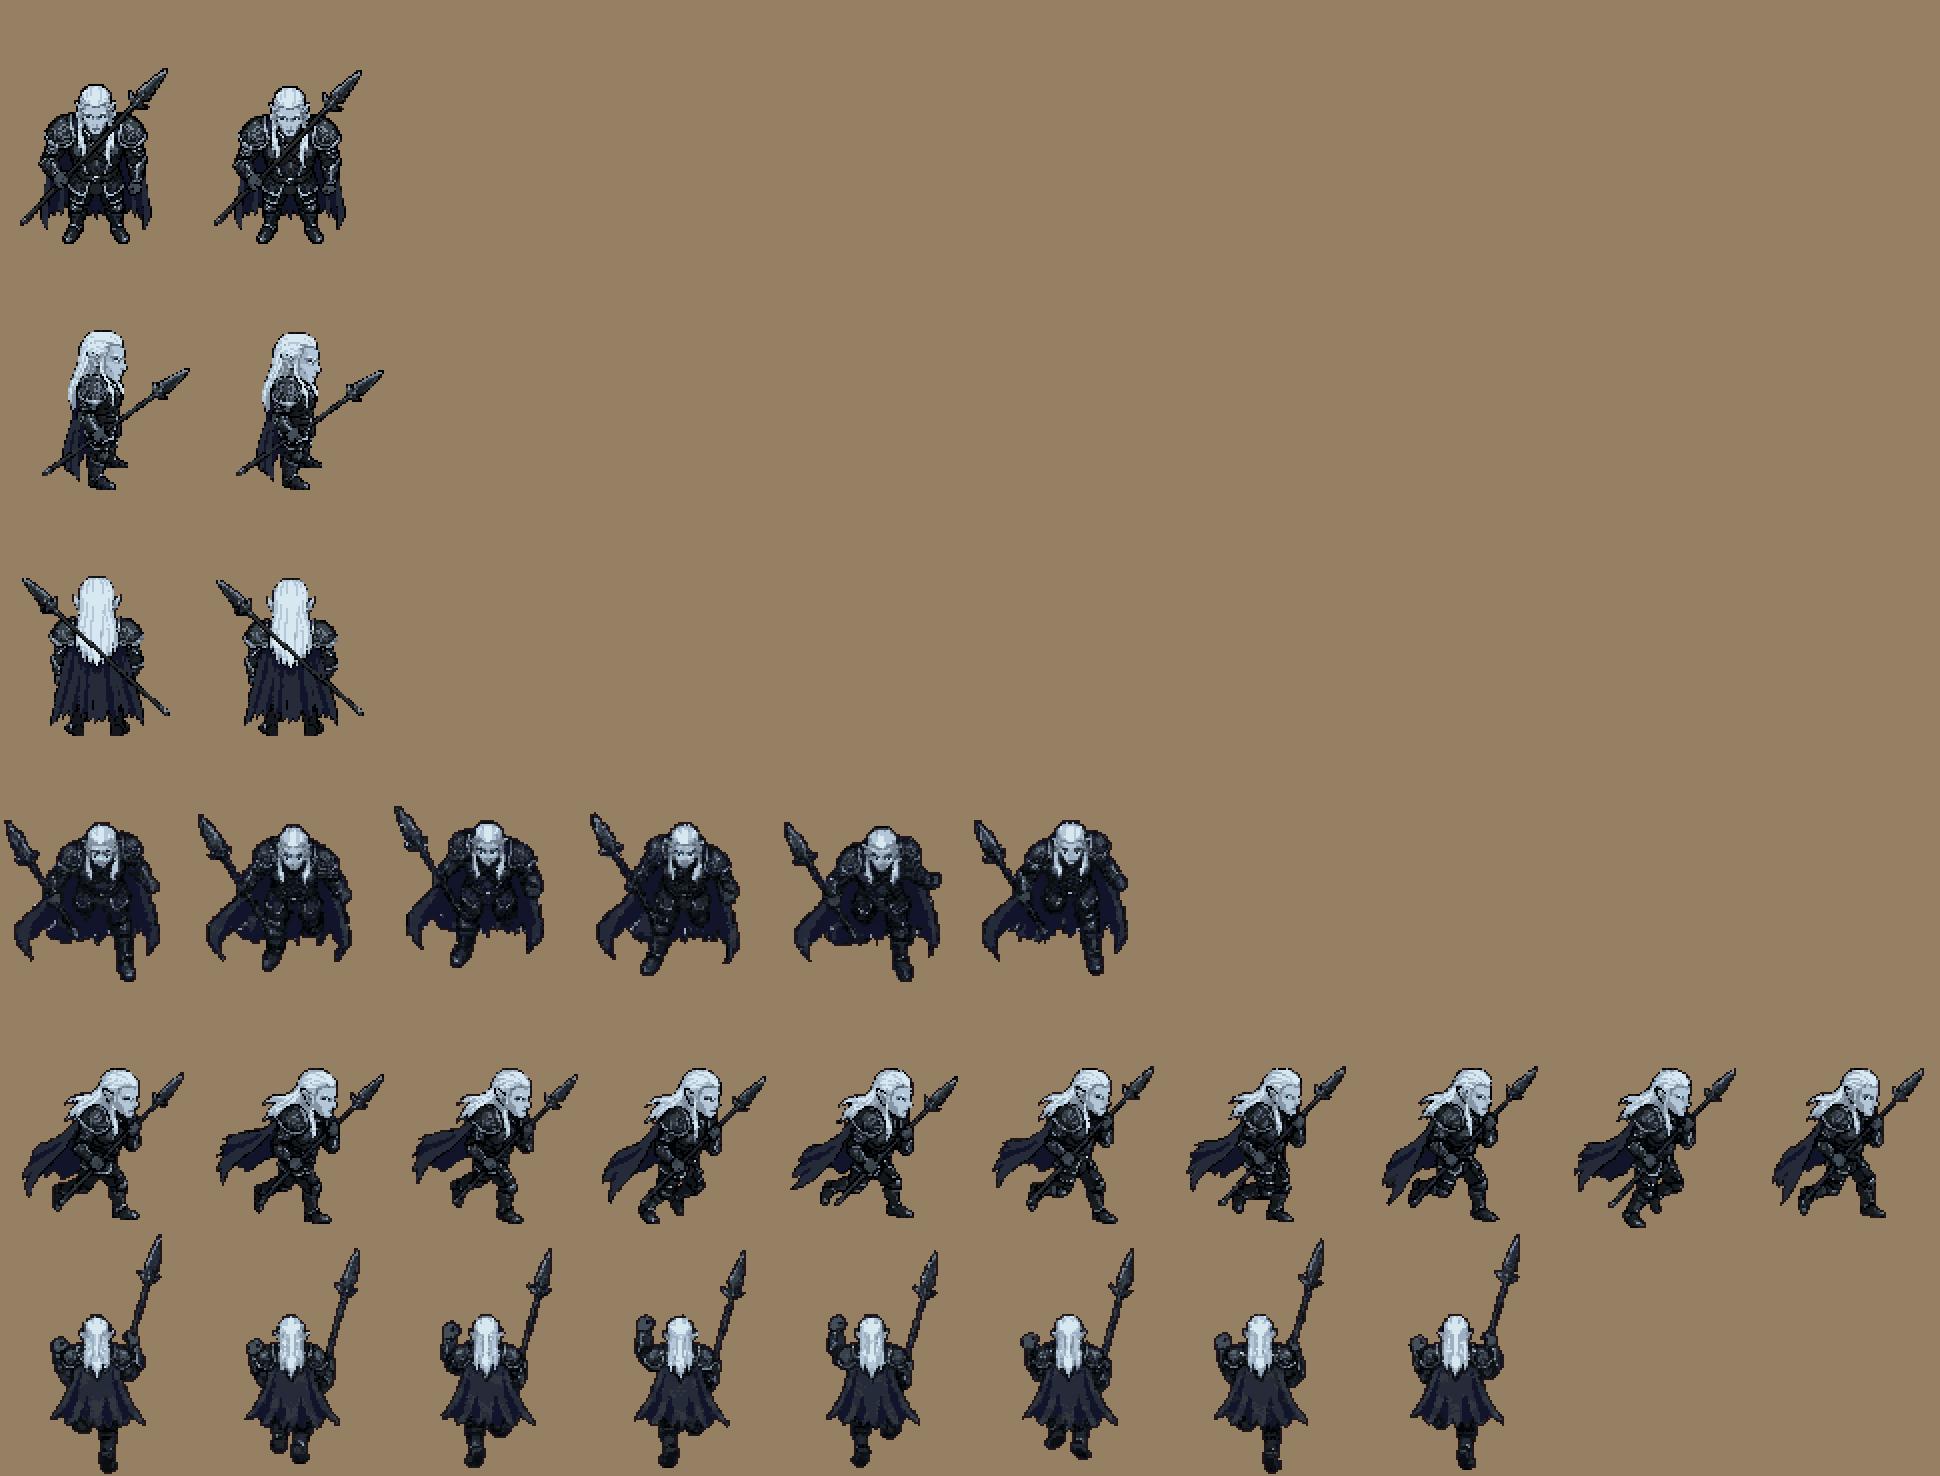
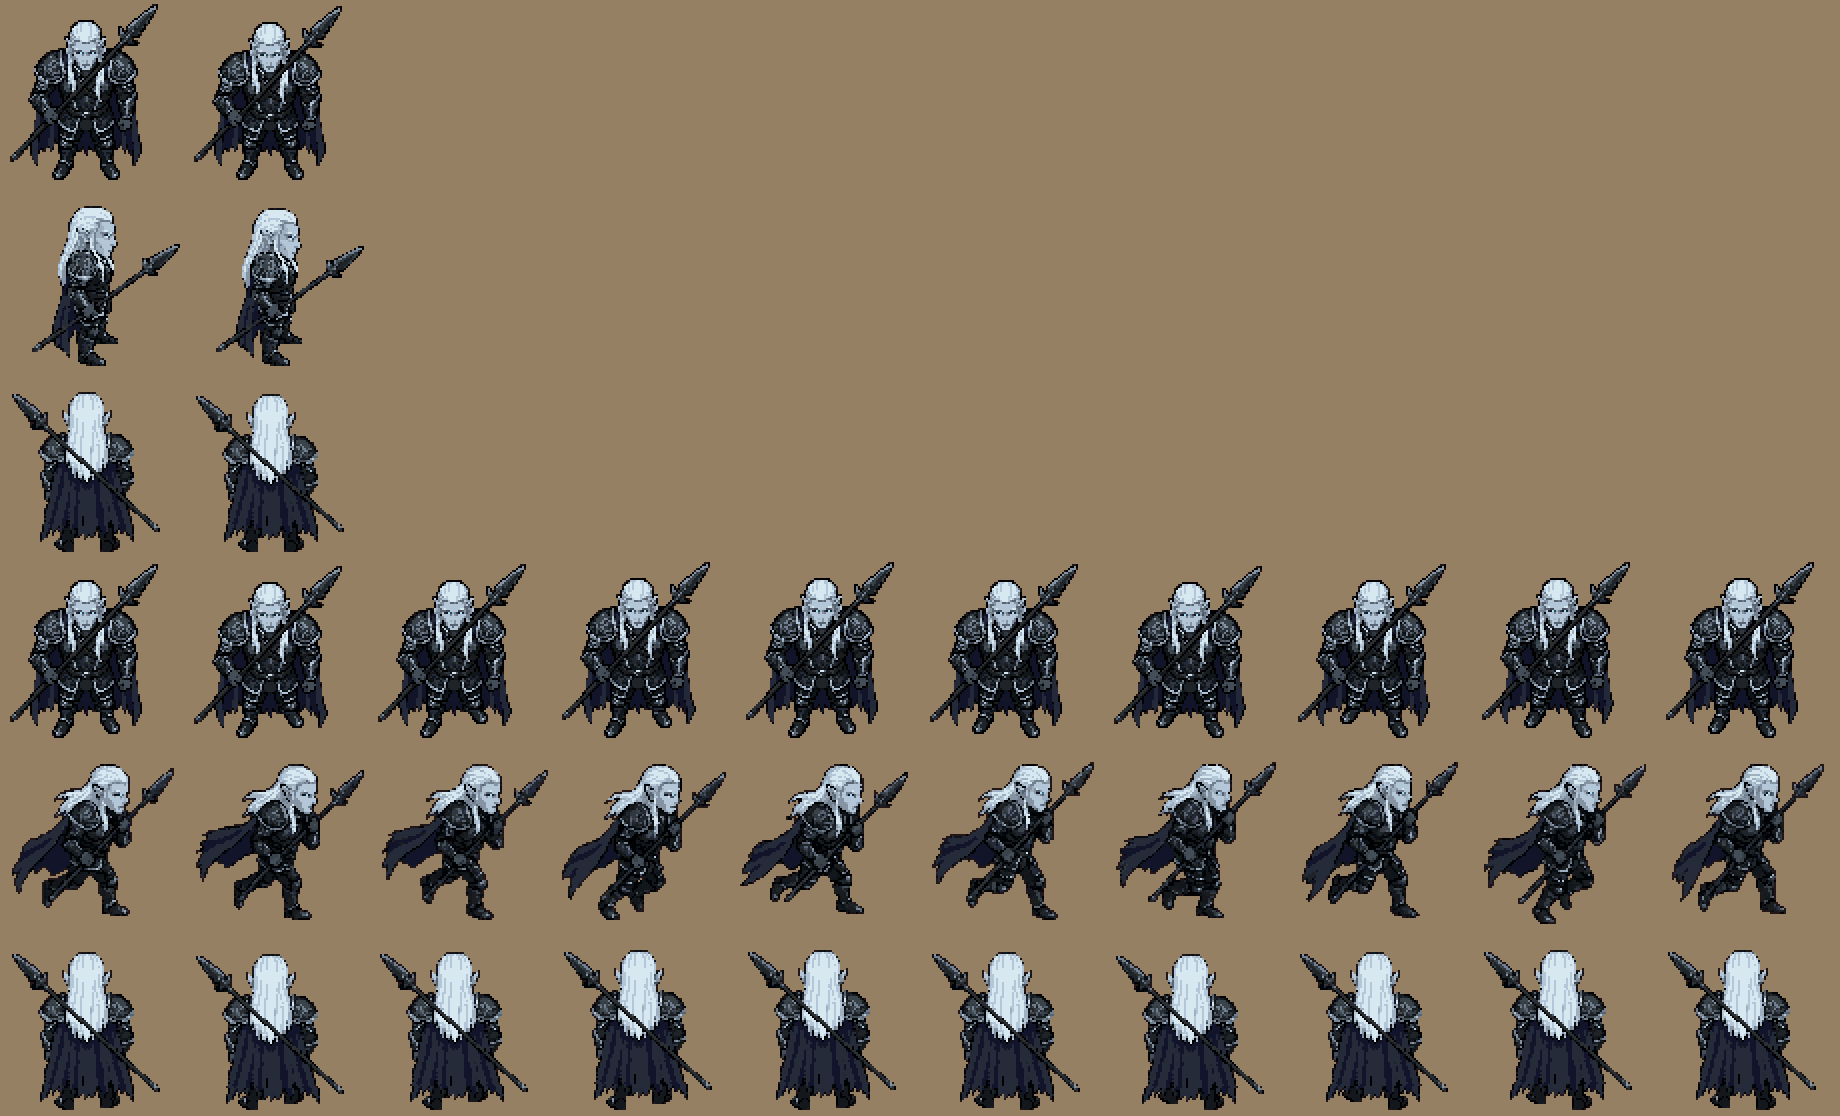
Art: Elvis's front and back runs rebuilt from his idle stance, no flicker (Task A3 review)
stride.py lifts the legs in turn, bobs the body and sways the cape's hem; everything
else keeps the stance's own pixels, and a foot stays on the feet line in every frame.

Changed region(s): [[0.0, 0.0, 0.9913, 1.0], [0.7125, 0.8226, 0.9913, 1.0]]

diff --git a/art/tools/stride.py b/art/tools/stride.py
@@ -1,0 +1,56 @@
+# A still stance -> a run cycle with no flicker. Frame 0 of an idle sheet is cut into parts (the pixels from row
+# "from" down, in columns "cols"; the first part to claim a pixel keeps it) and the body (everything else). Each frame
+# moves every part by its own dx/dy (plus the bob if "bob": true) and the body by the bob (px, + = down); "under"
+# parts (the legs) are drawn behind the body. The eyes, trim and hair stay the stance's own pixels, and every frame
+# must keep a foot on the stance's feet line.
+# Usage: uv run --with pillow --with numpy python art/tools/stride.py art/<c>/stride_<key>.json --manifest art/<c>/manifest.json
+# Recipe: {"idle": "idle_F.png", "out": "run_F.png", "key": "run_F", "fps": 10, "bob": [1, 2, 0, ...],
+#          "parts": [{"what": "left leg", "cols": [100, 117], "from": 145, "dy": [0, 0, 0, -3, -7, -4], "under": true}, ...]}
+import argparse, json, os, sys
+import numpy as np
+from PIL import Image
+sys.path.insert(0, os.path.join(os.path.dirname(os.path.abspath(__file__)), '..'))
+from sprites import manifest
+
+p = argparse.ArgumentParser()
+p.add_argument('recipe'); p.add_argument('--manifest', required=True)
+A = p.parse_args()
+R = json.load(open(A.recipe)); d = os.path.dirname(A.recipe)
+cw, ch = json.load(open(A.manifest))['cell']
+a = np.asarray(Image.open(os.path.join(d, R['idle'])).convert('RGBA'))[:ch, :cw].copy()
+on = a[..., 3] > 0
+bob = R['bob']; n = len(bob)
+free = on.copy(); parts = []
+for q in R['parts']:
+    m = np.zeros(on.shape, bool); m[q['from']:, q['cols'][0]:q['cols'][1] + 1] = True
+    m &= free; free &= ~m
+    dx, dy = q.get('dx', [0] * n), q.get('dy', [0] * n)
+    assert len(dx) == n and len(dy) == n, f"{q['what']}: dx and dy need one value per frame, like bob"
+    parts.append((np.where(m[..., None], a, 0), q, dx, dy))
+body = np.where(free[..., None], a, 0)
+feet = np.nonzero(on.any(1))[0].max()
+
+
+def moved(img, dx, dy):                                   # + = right / down; what leaves the cell is dropped
+    out = np.zeros_like(img)
+    ys, xs = np.nonzero(img[..., 3] > 0)
+    keep = (ys + dy >= 0) & (ys + dy < ch) & (xs + dx >= 0) & (xs + dx < cw)
+    out[ys[keep] + dy, xs[keep] + dx] = img[ys[keep], xs[keep]]
+    return out
+
+
+sheet = np.zeros((ch, cw * n, 4), np.uint8)
+for i in range(n):
+    f = np.zeros_like(a)
+    layers = [moved(img, dx[i], dy[i] + (bob[i] if q.get('bob') else 0)) for img, q, dx, dy in parts]
+    under = [l for l, (_, q, _, _) in zip(layers, parts) if q.get('under')]
+    over = [l for l, (_, q, _, _) in zip(layers, parts) if not q.get('under')]
+    for l in under + [moved(body, 0, bob[i])] + over:
+        f[l[..., 3] > 0] = l[l[..., 3] > 0]
+    assert np.nonzero((f[..., 3] > 0).any(1))[0].max() == feet, f'frame {i}: no foot on the feet line'
+    sheet[:, i * cw:(i + 1) * cw] = f
+cols = lambda x: {tuple(c) for c in x[x[..., 3] > 0][:, :3]}
+assert cols(sheet) <= cols(a), 'a colour that is not in the stance'
+Image.fromarray(sheet).save(os.path.join(d, R['out']))
+manifest(A.manifest, R['key'], R['out'], n, R['fps'], True, (cw, ch))
+print(R['key'], n, 'frames, feet row', feet, 'sheet', (cw * n, ch))

diff --git a/art/tools/README.md b/art/tools/README.md
@@ -8,6 +8,7 @@ Blender is `"/mnt/c/Program Files/Blender Foundation/Blender 5.2/blender.exe"` a
 | `art/sprites.py` | A Gemini strip on magenta -> a sheet: cut into cells, magenta and its rim tint removed, each frame shrunk to the shared scale (block mode colour, not the average, so lava cracks, trims and outlines stay crisp), feet on one line, <= 32 colours or locked to a palette, hand touch-ups, `<out>_x4.png` preview, optional manifest entry. Usage at the top of the file; `--selftest` checks it |
 | `guide_pack.py` | A `pose_strip.py` strip -> a compact guide for Gemini: every cell cropped to the same box (hips centred, feet on one line), scaled up, side by side on magenta |
 | `breathe.py` | A still sprite (a master, or one clean Gemini view) -> a 2-frame breathing idle: everything above the belt 1 px lower in frame 1, nothing else changes. Writes the manifest entry |
+| `stride.py` | An idle's frame 0 -> a run cycle with no flicker: a JSON recipe cuts out the legs and the cape's hem by rows and columns and moves each part per frame (legs lifted in turn, the body bobbing, the hem swaying); everything else keeps the stance's own pixels, and every frame must keep a foot on the feet line. Recipes: `art/elvis/stride_run_F.json`, `stride_run_B.json` |
 | `band.py` | Cut one row of figures out of a Gemini picture that padded the strip with extra copies above and below: shapes reaching outside rows Y0..Y1 go (touching shapes are split first) |
 | `eyes.py` | Eye touch-ups for `sprites.py --touchup`: front frames get the master's own eye pixels where its head matches; `--side` finds the profile eye and draws a pupil and an ice-blue catch-light |
 | `gif.py` | Manifest keys -> a 4x GIF for `docs/progress/`, timed by fps and holds, on sand; `--row` plays several side by side |
@@ -62,6 +63,10 @@ The copy's textures are relative (`//textures/...`), so the script points them a
     also dulled the magenta to `#d95ac4`, which the clean-up still removes.
   - Then `sprites.py --anchor head` (head level, `--bob` for a designed bob; Gemini's own heights jump by up to 15 px),
     `eyes.py` for the eyes, and rebuild with `--touchup`. Each sheet's commands: `art/elvis/notes.md`.
+  - Gemini repaints every frame, so dark armour shimmers from frame to frame and a level head's outline pops, and it
+    drops details the master has (trim, ears, hair length). Where the upper body barely moves (Elvis's front and back
+    runs), `stride.py` from the idle's frame 0 is cleaner than any Gemini strip; keep Gemini for poses that really
+    change the body (the side run, attacks, rolls).
 - Once `palette.png` exists, the lock snaps touch-up colours to the nearest palette colour: append a new colour to
   `palette.png` before using it in `touchup.json` (32 at most).
 

diff --git a/art/elvis/notes.md b/art/elvis/notes.md
@@ -56,9 +56,14 @@ magenta canvas, uploaded with `master_x4.png` (on magenta) as image 2. Prompts: 
 | Sheet | Raw | Made with |
 | --- | --- | --- |
 | `idle_F` | (the master) | `breathe.py art/elvis/master.png --out art/elvis/idle_F.png --manifest art/elvis/manifest.json --key idle_F`; holds 0.3/0.2 s. `raw/idle_F_g1.jpeg` (4 frames from Gemini) was not used: tall, thin, small-headed copies |
-| `run_F` | `raw/run_F_g4.jpeg` (`g3` plus a follow-up adding the cape and the spear's blade) | `band.py raw/run_F_g4.jpeg <band.png> 288 482`, then `sprites.py <band.png> --cols 8 --rows 1 --anchor head --pick 0,2,3,4,6,7 --bob 0,1,-1,0,1,-1 --fps 10 --touchup art/elvis/touchup_run_F.json` (eyes from `eyes.py --master art/elvis/master.png --master-touchup art/elvis/touchup.json --head 28 8 50 34`) |
+| `run_F` | (the master, as `idle_F` frame 0) | `stride.py art/elvis/stride_run_F.json --manifest art/elvis/manifest.json`: 10 frames at 13 fps, the legs lifted in turn (up to 7 px), the body bobbing 0-2 px, the cape's hem pieces swaying 1 px |
 | `run_S` | `raw/run_S_g2.jpeg` (2 rows of 5) | `sprites.py raw/run_S_g2.jpeg --cols 5 --rows 2 --split shapes --anchor head --fps 13 --touchup art/elvis/touchup_run_S.json` (eyes from `eyes.py --side`) |
-| `run_B` | `raw/run_B_g1.jpeg` | `sprites.py raw/run_B_g1.jpeg --cols 8 --rows 1 --split shapes --anchor head --fps 12` |
+| `run_B` | (`idle_B` frame 0) | `stride.py art/elvis/stride_run_B.json --manifest art/elvis/manifest.json`: as `run_F`, the boots lifted up to 4 px under the cape, the hem below row 146 swaying 1 px |
+
+The first `run_F` and `run_B` (Gemini's `raw/run_F_g4.jpeg` and `raw/run_B_g1.jpeg`, commits `ec76b02` and `300f881`) were
+replaced after review: Gemini repaints the armour in every frame, so it shimmered and the head's outline popped; the
+front lost the trim, the ears and the long locks, and the back's hair stopped at the shoulder blades (the idle's
+reaches the waist). `touchup_run_F.json` belongs to that first version and is no longer used.
 | `idle_S`, `idle_B` | `raw/idle_SB_g1.jpeg` (the stance from the side and from behind) | `sprites.py raw/idle_SB_g1.jpeg --cols 2 --rows 1 --split shapes --anchor body --touchup art/elvis/touchup_idle_S.json`, each cell cropped to its figure, then `breathe.py` on each; holds 0.3/0.2 s |
 
 Not used: `run_F_g1` (the master's pose 8 times), `run_F_g2` (plain guide: tall and thin), `run_F_g3` (no cape, bare
